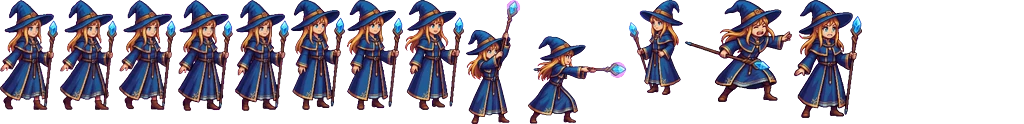
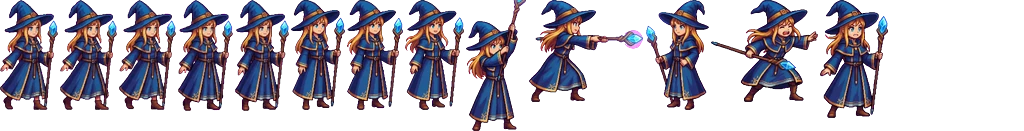
Runista: ataque con 3 fotogramas limpios (cortes explícitos en la hoja; antes salían dos figuras pegadas)
Claude-Session: https://claude.ai/code/session_015RNUyaQ6fKR3Ufego5oPP2

diff --git a/www/js/anim_data.js b/www/js/anim_data.js
@@ -1,3 +1,3 @@
 /* Generado por tools/art/build_heroes.py — no editar a mano. */
 'use strict';
-const HERO_ANIM = {"iop":{"bh":110,"walk":[[0,0,72,110,32.5,110.0],[74,0,71,110,30.9,109.7],[147,0,72,111,33.3,110.9],[221,0,71,110,34.7,109.4],[294,0,69,111,29.7,110.6]],"idle":[[365,0,66,110,29.9,110.1],[433,0,69,111,32.4,110.8],[504,0,67,110,31.6,109.9],[573,0,67,110,32.3,109.4]],"attack":[[642,0,79,131,42.9,130.6],[723,0,90,108,34.9,108.2],[815,0,68,110,35.2,110.0]],"hurt":[[885,0,88,96,50.0,95.9],[0,133,70,124,28.5,124.1]]},"cra":{"bh":110,"walk":[[0,0,61,110,32.4,110.0],[63,0,61,111,28.1,111.1],[126,0,61,111,34.9,111.1],[189,0,61,110,30.3,110.0],[252,0,61,110,29.8,110.0]],"idle":[[315,0,74,111,36.8,110.7],[391,0,73,109,30.0,109.3]],"attack":[[466,0,66,111,22.7,110.4],[534,0,71,110,23.2,110.0],[607,0,74,110,22.7,110.0]],"hurt":[[683,0,91,108,43.9,107.9],[776,0,77,112,46.1,112.1]]},"feca":{"bh":110,"walk":[[0,0,58,110,25.6,109.7],[60,0,57,110,25.5,109.4],[119,0,57,110,25.6,110.0],[178,0,55,111,23.6,110.6],[235,0,54,111,23.7,110.9]],"idle":[[291,0,54,110,24.2,110.2],[347,0,56,110,23.6,110.0],[405,0,59,110,25.2,109.8]],"attack":[[466,0,161,124,22.5,124.3],[629,0,54,95,32.6,94.7]],"hurt":[[685,0,107,102,61.6,101.8],[794,0,68,118,30.4,118.2]]},"sombra":{"bh":110,"walk":[[0,0,79,111,35.3,110.4],[81,0,77,110,32.0,110.0],[160,0,72,111,29.7,110.4],[234,0,76,110,27.0,110.0],[312,0,77,110,32.6,110.0],[391,0,77,110,28.0,110.0]],"idle":[[470,0,70,110,33.1,109.9],[542,0,71,111,33.9,110.6],[615,0,67,110,31.0,109.7],[684,0,69,110,33.0,110.1]],"attack":[[755,0,89,99,53.2,98.3],[846,0,99,109,41.2,108.3],[0,113,96,112,34.6,111.7],[98,113,84,115,48.7,114.5]],"hurt":[[184,113,72,108,35.1,108.0],[258,113,99,112,40.1,112.0]]},"domadora":{"bh":110,"walk":[[0,0,61,110,30.7,110.0],[63,0,62,110,30.5,110.0],[127,0,60,110,30.3,110.0],[189,0,60,110,29.7,110.0],[251,0,57,111,28.5,110.3],[310,0,56,111,26.4,110.3]],"idle":[[368,0,53,110,25.3,110.1],[423,0,54,110,25.9,109.9],[479,0,54,110,26.1,109.5],[535,0,53,110,25.0,110.3]],"attack":[[590,0,82,110,47.5,109.6],[674,0,99,111,28.0,110.4],[775,0,74,106,39.9,105.5],[851,0,60,115,27.0,114.5]],"hurt":[[913,0,85,109,50.0,109.0],[0,117,61,111,27.2,111.3]]},"artificiera":{"bh":110,"walk":[[0,0,67,110,27.0,109.7],[69,0,69,111,26.9,110.3],[140,0,67,110,28.2,110.0],[209,0,67,110,26.7,109.3],[278,0,53,110,22.3,110.0],[333,0,65,110,21.1,110.0]],"idle":[[400,0,60,110,23.1,109.7],[462,0,56,110,22.4,110.1],[520,0,56,111,22.3,110.3],[578,0,53,110,22.2,109.9]],"attack":[[633,0,60,107,31.3,106.6],[695,0,84,114,19.3,113.4]],"hurt":[[781,0,80,111,46.2,110.6],[863,0,45,109,24.3,108.4]]},"berserker":{"bh":110,"walk":[[0,0,139,108,35.0,107.9],[141,0,137,111,32.5,110.0],[280,0,137,111,32.8,110.0],[419,0,136,111,32.7,110.0]],"idle":[[557,0,137,110,33.8,109.7],[696,0,138,110,35.3,110.0],[836,0,96,113,42.8,112.6]],"attack":[[934,0,77,131,37.2,130.2],[0,133,110,110,37.4,110.0],[112,133,103,94,59.7,93.3]],"hurt":[[217,133,119,110,66.3,110.0]]}};
+const HERO_ANIM = {"iop":{"bh":110,"walk":[[0,0,72,110,32.5,110.0],[74,0,71,110,30.9,109.7],[147,0,72,111,33.3,110.9],[221,0,71,110,34.7,109.4],[294,0,69,111,29.7,110.6]],"idle":[[365,0,66,110,29.9,110.1],[433,0,69,111,32.4,110.8],[504,0,67,110,31.6,109.9],[573,0,67,110,32.3,109.4]],"attack":[[642,0,79,131,42.9,130.6],[723,0,90,108,34.9,108.2],[815,0,68,110,35.2,110.0]],"hurt":[[885,0,88,96,50.0,95.9],[0,133,70,124,28.5,124.1]]},"cra":{"bh":110,"walk":[[0,0,61,110,32.4,110.0],[63,0,61,111,28.1,111.1],[126,0,61,111,34.9,111.1],[189,0,61,110,30.3,110.0],[252,0,61,110,29.8,110.0]],"idle":[[315,0,74,111,36.8,110.7],[391,0,73,109,30.0,109.3]],"attack":[[466,0,66,111,22.7,110.4],[534,0,71,110,23.2,110.0],[607,0,74,110,22.7,110.0]],"hurt":[[683,0,91,108,43.9,107.9],[776,0,77,112,46.1,112.1]]},"feca":{"bh":110,"walk":[[0,0,58,110,25.6,109.7],[60,0,57,110,25.5,109.4],[119,0,57,110,25.6,110.0],[178,0,55,111,23.6,110.6],[235,0,54,111,23.7,110.9]],"idle":[[291,0,54,110,24.2,110.2],[347,0,56,110,23.6,110.0],[405,0,59,110,25.2,109.8]],"attack":[[466,0,61,131,26.1,130.5],[529,0,115,102,29.2,101.8],[646,0,63,110,37.9,110.0]],"hurt":[[711,0,107,102,61.6,101.8],[820,0,68,118,30.4,118.2]]},"sombra":{"bh":110,"walk":[[0,0,79,111,35.3,110.4],[81,0,77,110,32.0,110.0],[160,0,72,111,29.7,110.4],[234,0,76,110,27.0,110.0],[312,0,77,110,32.6,110.0],[391,0,77,110,28.0,110.0]],"idle":[[470,0,70,110,33.1,109.9],[542,0,71,111,33.9,110.6],[615,0,67,110,31.0,109.7],[684,0,69,110,33.0,110.1]],"attack":[[755,0,89,99,53.2,98.3],[846,0,99,109,41.2,108.3],[0,113,96,112,34.6,111.7],[98,113,84,115,48.7,114.5]],"hurt":[[184,113,72,108,35.1,108.0],[258,113,99,112,40.1,112.0]]},"domadora":{"bh":110,"walk":[[0,0,61,110,30.7,110.0],[63,0,62,110,30.5,110.0],[127,0,60,110,30.3,110.0],[189,0,60,110,29.7,110.0],[251,0,57,111,28.5,110.3],[310,0,56,111,26.4,110.3]],"idle":[[368,0,53,110,25.3,110.1],[423,0,54,110,25.9,109.9],[479,0,54,110,26.1,109.5],[535,0,53,110,25.0,110.3]],"attack":[[590,0,82,110,47.5,109.6],[674,0,99,111,28.0,110.4],[775,0,74,106,39.9,105.5],[851,0,60,115,27.0,114.5]],"hurt":[[913,0,85,109,50.0,109.0],[0,117,61,111,27.2,111.3]]},"artificiera":{"bh":110,"walk":[[0,0,67,110,27.0,109.7],[69,0,69,111,26.9,110.3],[140,0,67,110,28.2,110.0],[209,0,67,110,26.7,109.3],[278,0,53,110,22.3,110.0],[333,0,65,110,21.1,110.0]],"idle":[[400,0,60,110,23.1,109.7],[462,0,56,110,22.4,110.1],[520,0,56,111,22.3,110.3],[578,0,53,110,22.2,109.9]],"attack":[[633,0,60,107,31.3,106.6],[695,0,84,114,19.3,113.4]],"hurt":[[781,0,80,111,46.2,110.6],[863,0,45,109,24.3,108.4]]},"berserker":{"bh":110,"walk":[[0,0,139,108,35.0,107.9],[141,0,137,111,32.5,110.0],[280,0,137,111,32.8,110.0],[419,0,136,111,32.7,110.0]],"idle":[[557,0,137,110,33.8,109.7],[696,0,138,110,35.3,110.0],[836,0,96,113,42.8,112.6]],"attack":[[934,0,77,131,37.2,130.2],[0,133,110,110,37.4,110.0],[112,133,103,94,59.7,93.3]],"hurt":[[217,133,119,110,66.3,110.0]]}};

diff --git a/tools/art/build_heroes.py b/tools/art/build_heroes.py
@@ -17,13 +17,14 @@ CLASSES = ['iop', 'cra', 'feca', 'sombra', 'domadora', 'artificiera', 'berserker
 KEEP = {
     'iop': {'attack': [0, 1, 2]},
     'cra': {'walk': [1, 2, 3, 4, 5], 'idle': [1, 2], 'attack': [0, 1, 2]},
-    'feca': {'walk': [1, 2, 3, 4, 5], 'idle': [0, 1, 2], 'attack': [0, 1]},
+    'feca': {'walk': [1, 2, 3, 4, 5], 'idle': [0, 1, 2], 'attack': [0, 1, 2]},
     'artificiera': {'attack': [0, 1]},
     'berserker': {'attack': [0, 1, 2], 'hurt': [0]},
 }
 FLIP = {'artificiera': {'walk': [5]}}
 CLIP_FWD = {'cra': 0.8, 'feca': 1.7, 'berserker': 1.0, 'iop': 0.85, 'domadora': 1.0}
-GRID = {'cra': {'walk': 6}}  # hojas cuyos fotogramas se tocan: se cortan en N columnas iguales
+# hojas cuyos fotogramas se tocan: N columnas iguales, o lista de cortes (fracción del ancho)
+GRID = {'cra': {'walk': 6}, 'feca': {'attack': [0.26, 0.72]}}
 PX_H = 300  # altura del arte de cuerpo entero (menú, diálogos)
 
 
@@ -44,10 +45,11 @@ def build(src, www):
             n = GRID.get(cls, {}).get(pose)
             if n:
                 import tempfile
-                im = Image.open(path).convert('RGB'); cw = im.width / n; fr = []
-                for k in range(n):
+                im = Image.open(path).convert('RGB'); fr = []
+                xs = [0] + [int(c * im.width) for c in n] + [im.width] if isinstance(n, list) else [int(k * im.width / n) for k in range(n + 1)]
+                for k in range(len(xs) - 1):
                     tmp = os.path.join(tempfile.gettempdir(), f'col_{cls}_{k}.png')
-                    im.crop((int(k * cw), 0, int((k + 1) * cw), im.height)).save(tmp)
+                    im.crop((xs[k], 0, xs[k + 1], im.height)).save(tmp)
                     fr.append(max(frames(tmp), key=lambda f: f['img'].width * f['img'].height))
             else:
                 fr = frames(path)
